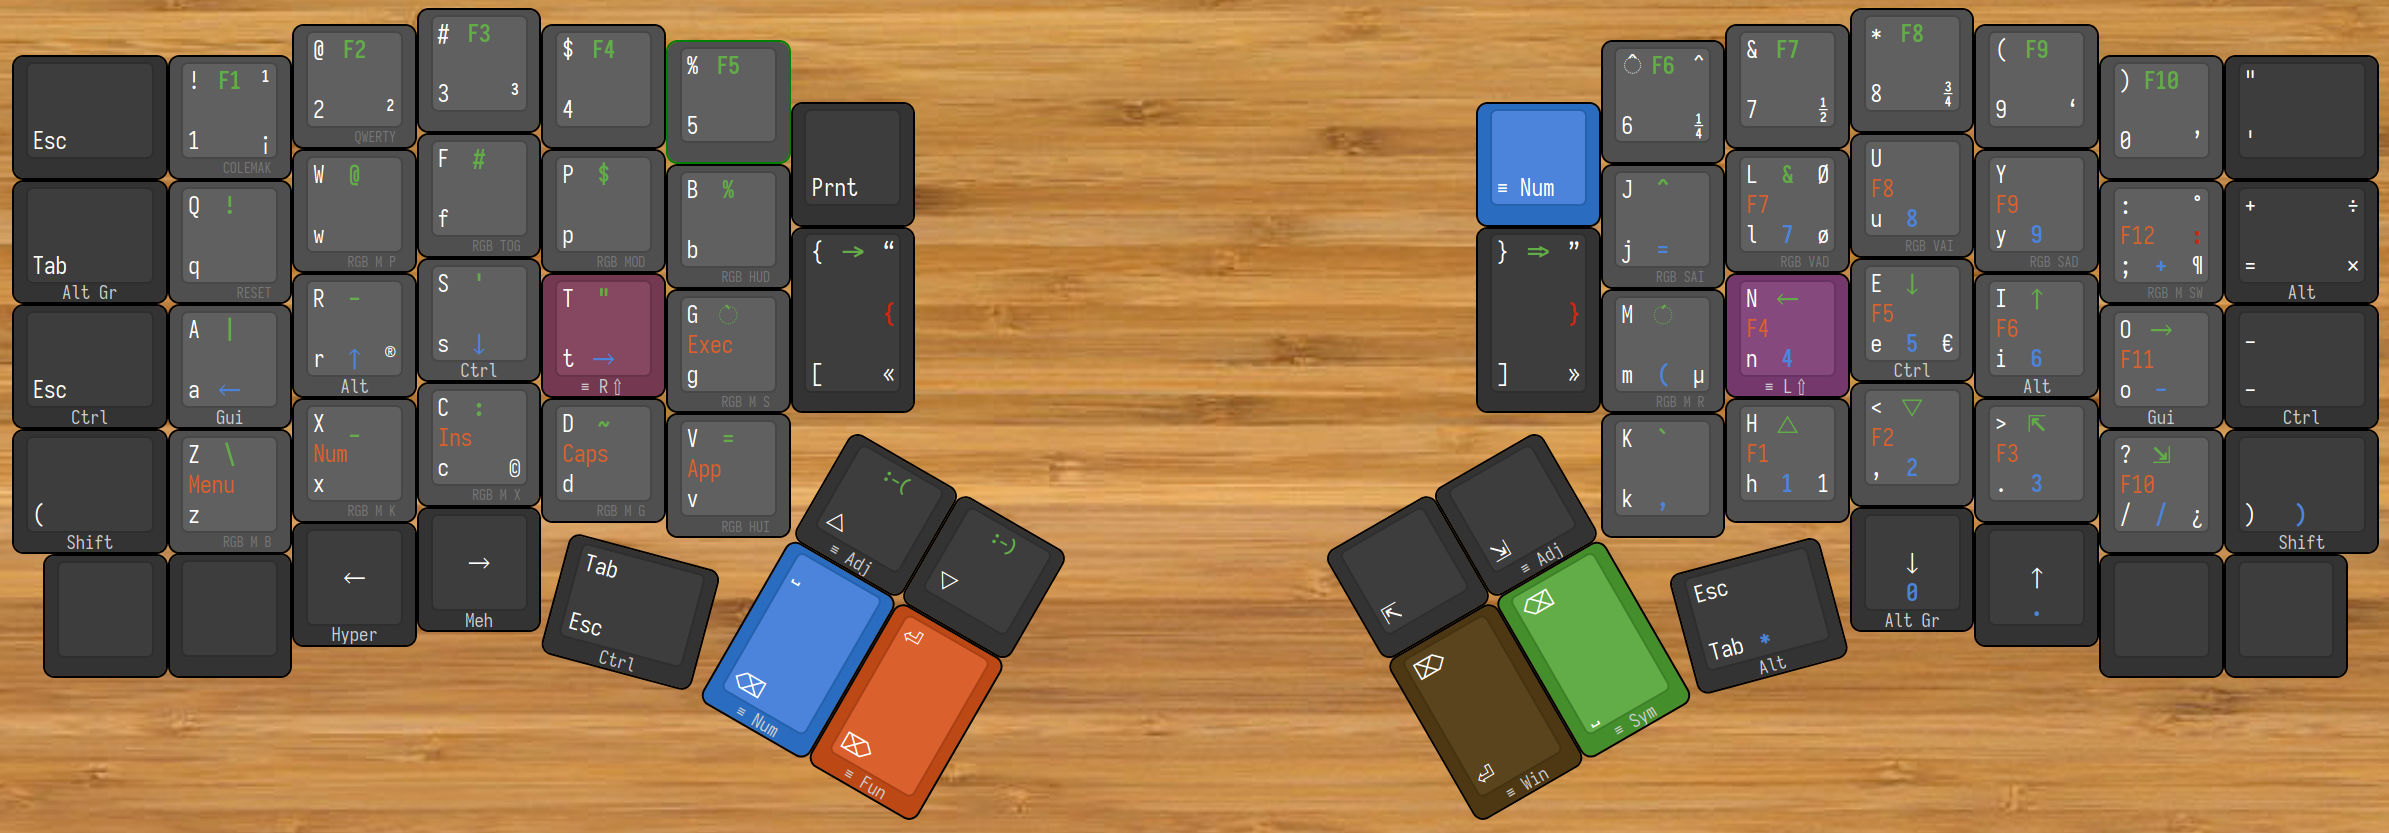
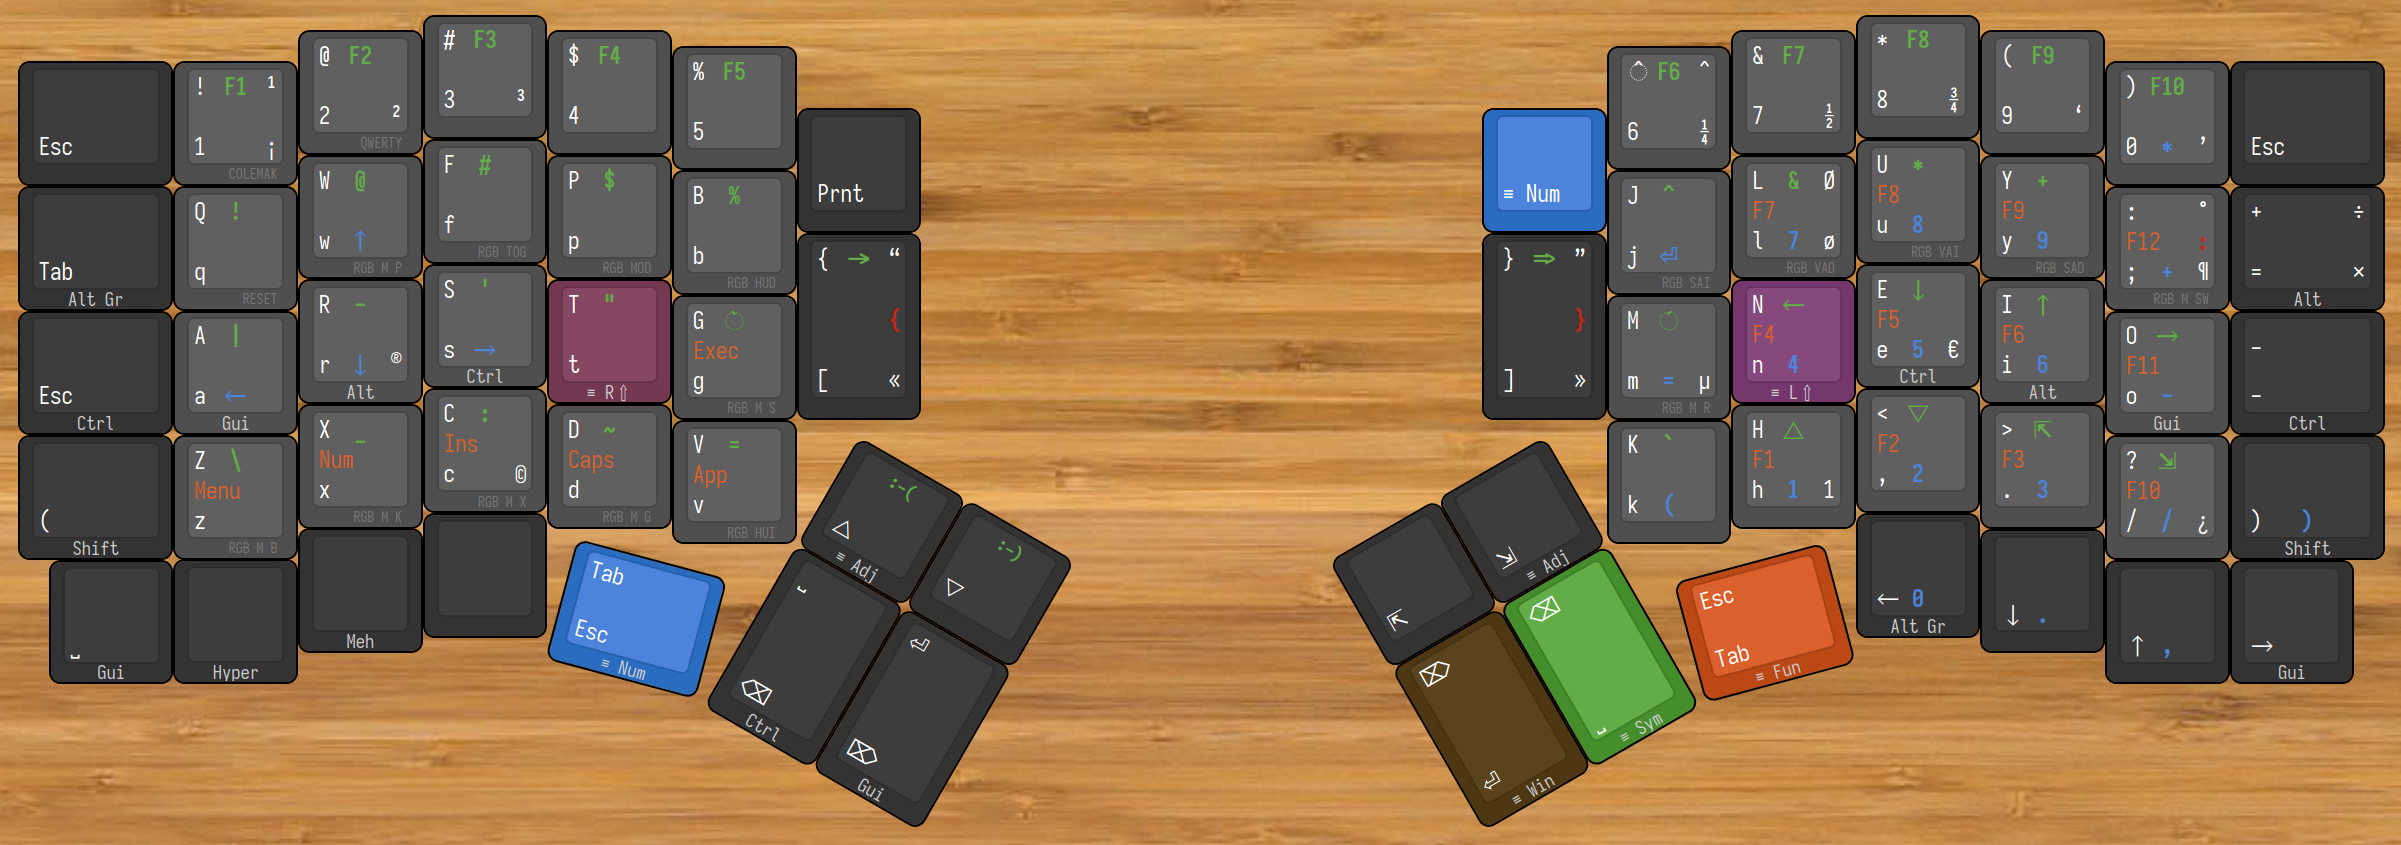
Updated layout: removed dactyl test and improved mod/lt positions

diff --git a/keymap.c b/keymap.c
@@ -129,7 +129,8 @@ qk_tap_dance_action_t tap_dance_actions[] = {
 #define KC_GURI LGUI_T(KC_RGHT)       // Right Arrow / Left Gui
 // -- Intenal corners:
 #define KC_SYPR LT(_SYMB, KC_PSCR)    // Print Screen / _symbols
-#define KC_NUGR LT(_NUMB, KC_GRAVE)   // ` ~ / _numbers
+// #define KC_NUGR LT(_NUMB, KC_GRAVE)   // ` ~ / _numbers
+#define KC_NUMB TG(_NUMB)             // Toggle _numbers layer
 // -- Thumb cluster:
 // --- Left half:
 #define KC_NUES LT(_NUMB, KC_ESC)     // Esc / _numbers
@@ -138,7 +139,8 @@ qk_tap_dance_action_t tap_dance_actions[] = {
 // --- Right half:
 #define KC_CTAB RCTL_T(KC_TAB)        // Tab / Right Ctrl
 #define KC_SYSP LT(_SYMB, KC_SPC)     // Space / _symbols
-#define KC_ALEN LALT_T(KC_ENT)        // Enter / Left Alt
+//#define KC_ALEN LALT_T(KC_ENT)        // Enter / Left Alt
+#define KC_AWEN LT(_AWES, KC_ENT)        // Enter / Left Alt
 
 // -- Bottom Keys:
 //#define KC_HYPL HYPR_T(KC_PPLS)       // +  / Hyper (Ctrl + Shift + Alt + Gui)
@@ -255,30 +257,30 @@ const uint16_t PROGMEM keymaps[][MATRIX_ROWS][MATRIX_COLS] = {
   // Colemak-DHm
   [_COLEMAKDHMK] = LAYOUT(
     //┌────────┬────────┬────────┬────────┬────────┬────────┐                                           ┌────────┬────────┬────────┬────────┬────────┬────────┐
-       KC_ESC ,KC_1    ,KC_2    ,KC_3    ,KC_4    ,KC_5    ,                                            KC_6    ,KC_7    ,KC_8    ,KC_9    ,KC_0    ,KC_QUOT ,
+       KC_ESC  ,KC_1    ,KC_2    ,KC_3    ,KC_4    ,KC_5    ,                                            KC_6    ,KC_7    ,KC_8    ,KC_9    ,KC_0    ,KC_ESC  ,
     //├────────┼────────┼────────┼────────┼────────┼────────┼────────┐                         ┌────────┼────────┼────────┼────────┼────────┼────────┼────────┤
-       KC_ATAB ,KC_Q    ,KC_W    ,KC_F    ,KC_P    ,KC_B    ,KC_PSCR ,                          TG(_NUMB) ,KC_J    ,KC_L    ,KC_U    ,KC_Y    ,KC_TDSC ,KC_AEQL ,
+       KC_ATAB ,KC_Q    ,KC_W    ,KC_F    ,KC_P    ,KC_B    ,KC_PSCR ,                          KC_NUMB ,KC_J    ,KC_L    ,KC_U    ,KC_Y    ,KC_TDSC ,KC_AEQL ,
     //├────────┼────────┼────────┼────────┼────────┼────────┼────────┤                         ├────────┼────────┼────────┼────────┼────────┼────────┼────────┤
        KC_CESC ,KC_GU_A ,KC_AL_R ,KC_CT_S ,KC_T_SH ,KC_G    ,KC_TDLB ,                          KC_TDRB ,KC_M    ,KC_N_SH ,KC_CT_E ,KC_AL_I ,KC_GU_O ,KC_CMIN ,
     //├────────┼────────┼────────┼────────┼────────┼────────┼────────┼────────┐       ┌────────┼────────┼────────┼────────┼────────┼────────┼────────┼────────┤
        KC_LSPO ,KC_Z    ,KC_X    ,KC_C    ,KC_D    ,KC_V    ,KC_ADPU ,KC_PGDN ,        KC_HOME ,KC_ADEN ,KC_K    ,KC_H    ,KC_COMM ,KC_DOT  ,KC_SLSH ,KC_RSPC ,
     //├────────┼────────┼────────┼────────┼────┬───┴────┬───┼────────┼────────┤       ├────────┼────────┼───┬────┴───┬────┼────────┼────────┼────────┼────────┤
-       XXXXXXX ,XXXXXXX, HYPR_T(KC_LEFT) ,MEH_T(KC_RGHT)  ,    LCTL_T(KC_ESC) ,    LT(_NUMB,KC_BSPC) ,LT(_FUNC,KC_DEL) ,        LT(_AWES, KC_ENT) ,KC_SYSP ,    LALT_T(KC_TAB) ,  RALT_T(KC_DOWN),KC_UP ,XXXXXXX   ,XXXXXXX
+       KC_GUSP ,KC_HYPR ,KC_MEH  ,XXXXXXX ,     KC_NUES ,    KC_CBSP ,KC_GUDE ,        KC_AWEN ,KC_SYSP ,    KC_FUTA ,     KC_LEFT ,KC_DOWN ,KC_UP   ,KC_GURI,
     //└────────┴────────┴────────┴────────┘    └────────┘   └────────┴────────┘       └────────┴────────┘   └────────┘    └────────┴────────┴────────┴────────┘
   ),
 
   // QWERTY
   [_QWERTY] = LAYOUT(
     //┌────────┬────────┬────────┬────────┬────────┬────────┐                                           ┌────────┬────────┬────────┬────────┬────────┬────────┐
-       KC_FUES ,KC_1    ,KC_2    ,KC_3    ,KC_4    ,KC_5    ,                                            KC_6    ,KC_7    ,KC_8    ,KC_9    ,KC_0    ,KC_FUQU ,
+       KC_FUES ,KC_1    ,KC_2    ,KC_3    ,KC_4    ,KC_5    ,                                            KC_6    ,KC_7    ,KC_8    ,KC_9    ,KC_0    ,KC_ESC  ,
     //├────────┼────────┼────────┼────────┼────────┼────────┼────────┐                         ┌────────┼────────┼────────┼────────┼────────┼────────┼────────┤
-       KC_ATAB ,KC_Q    ,KC_W    ,KC_E    ,KC_R    ,KC_T    ,KC_SYPR ,                          KC_NUGR ,KC_Y    ,KC_U    ,KC_I    ,KC_O    ,KC_P    ,KC_AEQL ,
+       KC_ATAB ,KC_Q    ,KC_W    ,KC_E    ,KC_R    ,KC_T    ,KC_SYPR ,                          KC_NUMB ,KC_Y    ,KC_U    ,KC_I    ,KC_O    ,KC_P    ,KC_AEQL ,
     //├────────┼────────┼────────┼────────┼────────┼────────┼────────┤                         ├────────┼────────┼────────┼────────┼────────┼────────┼────────┤
        KC_CESC ,KC_A    ,KC_S    ,KC_D    ,KC_F    ,KC_G    ,KC_TDLB ,                          KC_TDRB ,KC_H    ,KC_J    ,KC_K    ,KC_L    ,KC_TDSC ,KC_CMIN ,
     //├────────┼────────┼────────┼────────┼────────┼────────┼────────┼────────┐       ┌────────┼────────┼────────┼────────┼────────┼────────┼────────┼────────┤
        KC_LSPO ,KC_Z    ,KC_X    ,KC_C    ,KC_V    ,KC_B    ,KC_ADPU ,KC_PGDN ,        KC_HOME ,KC_ADEN ,KC_N    ,KC_M    ,KC_COMM ,KC_DOT  ,KC_SLSH ,KC_RSPC ,
     //├────────┼────────┼────────┼────────┼────┬───┴────┬───┼────────┼────────┤       ├────────┼────────┼───┬────┴───┬────┼────────┼────────┼────────┼────────┤
-       KC_GUSP ,KC_HYPR ,KC_MEH  ,XXXXXXX ,     KC_NUES ,    KC_CBSP ,KC_GUDE ,        KC_ALEN ,KC_SYSP ,    KC_FUTA ,     KC_LEFT ,KC_DOWN ,KC_UP   ,KC_GURI
+       KC_GUSP ,KC_HYPR ,KC_MEH  ,XXXXXXX ,     KC_NUES ,    KC_CBSP ,KC_GUDE ,        KC_AWEN ,KC_SYSP ,    KC_FUTA ,     KC_LEFT ,KC_DOWN ,KC_UP   ,KC_GURI
     //└────────┴────────┴────────┴────────┘    └────────┘   └────────┴────────┘       └────────┴────────┘   └────────┘    └────────┴────────┴────────┴────────┘
   ),
 
@@ -300,15 +302,15 @@ const uint16_t PROGMEM keymaps[][MATRIX_ROWS][MATRIX_COLS] = {
   // Numeric keypad layer
   [_NUMB] = LAYOUT(
     //┌────────┬────────┬────────┬────────┬────────┬────────┐                                           ┌────────┬────────┬────────┬────────┬────────┬────────┐
-       _______ ,_______ ,_______ ,_______ ,_______ ,_______ ,                                            _______ ,_______ ,_______ ,_______ ,_______ ,_______ ,
+       _______ ,_______ ,_______ ,_______ ,_______ ,_______ ,                                            XXXXXXX ,XXXXXXX ,XXXXXXX ,XXXXXXX ,KC_PAST ,_______ ,
     //├────────┼────────┼────────┼────────┼────────┼────────┼────────┐                         ┌────────┼────────┼────────┼────────┼────────┼────────┼────────┤
-       _______ ,_______ ,KC_UP   ,_______ ,_______ ,_______ ,_______ ,                          TG(_NUMB),KC_EQL  ,KC_KP_7 ,KC_KP_8 ,KC_KP_9 ,KC_PPLS ,_______ ,
+       _______ ,_______ ,KC_UP   ,_______ ,_______ ,_______ ,_______ ,                          KC_NUMB ,KC_PENT ,KC_KP_7 ,KC_KP_8 ,KC_KP_9 ,KC_PPLS ,_______ ,
     //├────────┼────────┼────────┼────────┼────────┼────────┼────────┤                         ├────────┼────────┼────────┼────────┼────────┼────────┼────────┤
-       _______ ,KC_LEFT ,KC_DOWN ,KC_RGHT ,_______ ,_______ ,_______ ,                          _______ ,S(KC_9) ,KC_KP_4 ,KC_KP_5 ,KC_KP_6 ,KC_PMNS ,_______ ,
+       _______ ,KC_LEFT ,KC_DOWN ,KC_RGHT ,_______ ,_______ ,_______ ,                          _______ ,KC_EQL  ,KC_KP_4 ,KC_KP_5 ,KC_KP_6 ,KC_PMNS ,_______ ,
     //├────────┼────────┼────────┼────────┼────────┼────────┼────────┼────────┐       ┌────────┼────────┼────────┼────────┼────────┼────────┼────────┼────────┤
-       _______ ,_______ ,_______ ,_______ ,_______ ,_______ ,_______ ,_______ ,        _______ ,_______ ,KC_PCMM ,KC_KP_1 ,KC_KP_2 ,KC_KP_3 ,KC_PSLS ,S(KC_0) ,
+       _______ ,_______ ,_______ ,_______ ,_______ ,_______ ,_______ ,_______ ,        _______ ,_______ ,S(KC9)  ,KC_KP_1 ,KC_KP_2 ,KC_KP_3 ,KC_PSLS ,S(KC_0) ,
     //├────────┼────────┼────────┼────────┼────┬───┴────┬───┼────────┼────────┤       ├────────┼────────┼───┬────┴───┬────┼────────┼────────┼────────┼────────┤
-       _______ ,_______ ,_______ ,_______ ,     _______ ,    _______ ,_______ ,        _______ ,_______ ,    KC_PAST ,     KC_KP_0 ,KC_PDOT ,XXXXXXX ,XXXXXXX
+       _______ ,_______ ,_______ ,_______ ,     _______ ,    _______ ,_______ ,        _______ ,_______ ,    XXXXXXX ,     KC_KP_0 ,KC_PDOT ,KC_PCMM ,XXXXXXX
     //└────────┴────────┴────────┴────────┘    └────────┘   └────────┴────────┘       └────────┴────────┘   └────────┘    └────────┴────────┴────────┴────────┘
   ),
 
